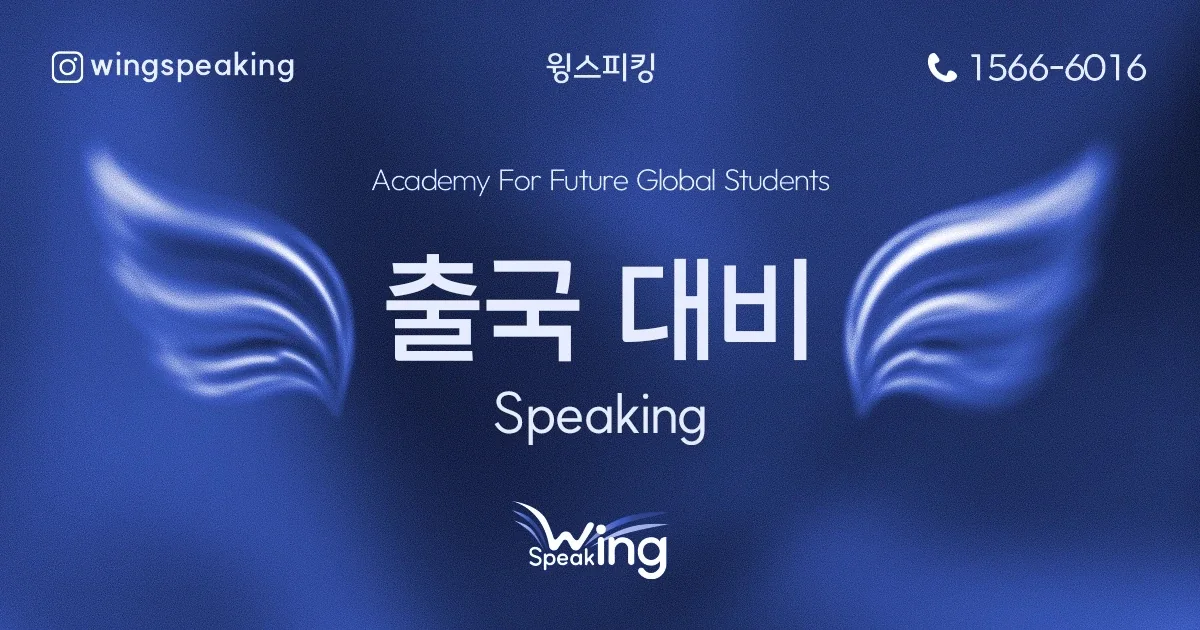
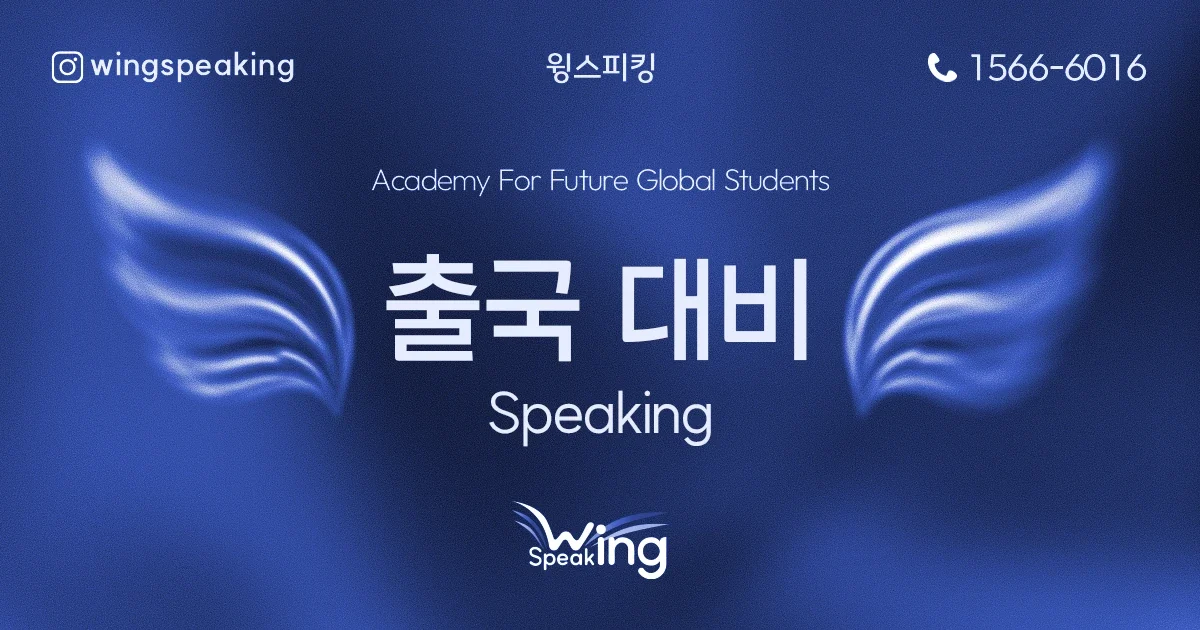
WingSpeaking: IELTS test center image, refreshed program images
Claude-Session: https://claude.ai/code/session_014BqGhY4ErY7f5qsFQT5aby

diff --git a/work/wingspeaking.html b/work/wingspeaking.html
@@ -140,9 +140,9 @@
             <p class="web__cap"><span>MAIN BANNER</span>홈페이지 메인 배너 — 과정마다 색을 바꾼 날개 그래픽</p>
             <div class="web__banners"><img decoding="async" src="../assets/work/wingspeaking/web/program/banner-departure.webp" alt="홈페이지 배너 — 출국 대비 Speaking" loading="lazy"><img decoding="async" src="../assets/work/wingspeaking/web/program/banner-academic.webp" alt="홈페이지 배너 — Academic Program · 대학 출국반" loading="lazy"><img decoding="async" src="../assets/work/wingspeaking/web/program/banner-student.webp" alt="홈페이지 배너 — 유학생 Speaking" loading="lazy"><img decoding="async" src="../assets/work/wingspeaking/web/program/banner-test.webp" alt="홈페이지 배너 — Test Center · 국제학교 입학 인터뷰" loading="lazy"><img decoding="async" src="../assets/work/wingspeaking/web/program/banner-junior.webp" alt="홈페이지 배너 — Junior Class · 출국반 기본기 종합강의" loading="lazy"><img decoding="async" src="../assets/work/wingspeaking/web/program/banner-junior-g.webp" alt="홈페이지 배너 — Junior Class for G9–G10" loading="lazy"></div>
             <p class="web__cap"><span>PROGRAM PAGE</span>과정 소개 페이지 대표 이미지</p>
-            <div class="web__thumbs"><img decoding="async" src="../assets/work/wingspeaking/web/program/page-main.webp?v=2" alt="과정 소개 이미지 — 윙스피킹 대표 이미지" loading="lazy"><img decoding="async" src="../assets/work/wingspeaking/web/program/page-departure.webp" alt="과정 소개 이미지 — 출국 대비" loading="lazy"><img decoding="async" src="../assets/work/wingspeaking/web/program/page-interview.webp" alt="과정 소개 이미지 — 국제학교 입학 인터뷰" loading="lazy"><img decoding="async" src="../assets/work/wingspeaking/web/program/page-student.webp" alt="과정 소개 이미지 — 유학생 Speaking" loading="lazy"><img decoding="async" src="../assets/work/wingspeaking/web/program/page-junior.webp?v=2" alt="과정 소개 이미지 — 주니어 종합강의" loading="lazy"><img decoding="async" src="../assets/work/wingspeaking/web/program/page-junior-g.webp" alt="과정 소개 이미지 — 주니어 출국반 G9–G10" loading="lazy"></div>
+            <div class="web__thumbs"><img decoding="async" src="../assets/work/wingspeaking/web/program/page-main.webp?v=2" alt="과정 소개 이미지 — 윙스피킹 대표 이미지" loading="lazy"><img decoding="async" src="../assets/work/wingspeaking/web/program/page-departure.webp?v=2" alt="과정 소개 이미지 — 출국 대비" loading="lazy"><img decoding="async" src="../assets/work/wingspeaking/web/program/page-interview.webp" alt="과정 소개 이미지 — 국제학교 입학 인터뷰" loading="lazy"><img decoding="async" src="../assets/work/wingspeaking/web/program/page-student.webp?v=2" alt="과정 소개 이미지 — 유학생 Speaking" loading="lazy"><img decoding="async" src="../assets/work/wingspeaking/web/program/page-junior.webp?v=2" alt="과정 소개 이미지 — 주니어 종합강의" loading="lazy"><img decoding="async" src="../assets/work/wingspeaking/web/program/page-junior-g.webp?v=2" alt="과정 소개 이미지 — 주니어 출국반 G9–G10" loading="lazy"></div>
             <p class="web__cap"><span>TEST CENTER</span>유학 시험센터 — DET · IELTS · 입학 인터뷰</p>
-            <div class="web__thumbs"><img decoding="async" src="../assets/work/wingspeaking/web/program/test-center.webp" alt="유학 시험센터 대표 이미지 — Test Center, DET · IELTS · INTERVIEW" loading="lazy"><img decoding="async" src="../assets/work/wingspeaking/web/program/test-duolingo.webp" alt="시험센터 이미지 — Duolingo English Test" loading="lazy"><img decoding="async" src="../assets/work/wingspeaking/web/program/test-interview.webp" alt="시험센터 이미지 — 국제학교 입학 인터뷰" loading="lazy"></div>
+            <div class="web__thumbs"><img decoding="async" src="../assets/work/wingspeaking/web/program/test-center.webp" alt="유학 시험센터 대표 이미지 — Test Center, DET · IELTS · INTERVIEW" loading="lazy"><img decoding="async" src="../assets/work/wingspeaking/web/program/test-ielts.webp" alt="시험센터 이미지 — IELTS 아이엘츠" loading="lazy"><img decoding="async" src="../assets/work/wingspeaking/web/program/test-duolingo.webp" alt="시험센터 이미지 — Duolingo English Test" loading="lazy"><img decoding="async" src="../assets/work/wingspeaking/web/program/test-interview.webp" alt="시험센터 이미지 — 국제학교 입학 인터뷰" loading="lazy"></div>
           </div>
           <div class="web__tools">
             <div><span>DESIGN</span><ul class="chips"><li>Figma</li><li>Adobe XD</li><li>Photoshop</li><li>Illustrator</li></ul></div>
